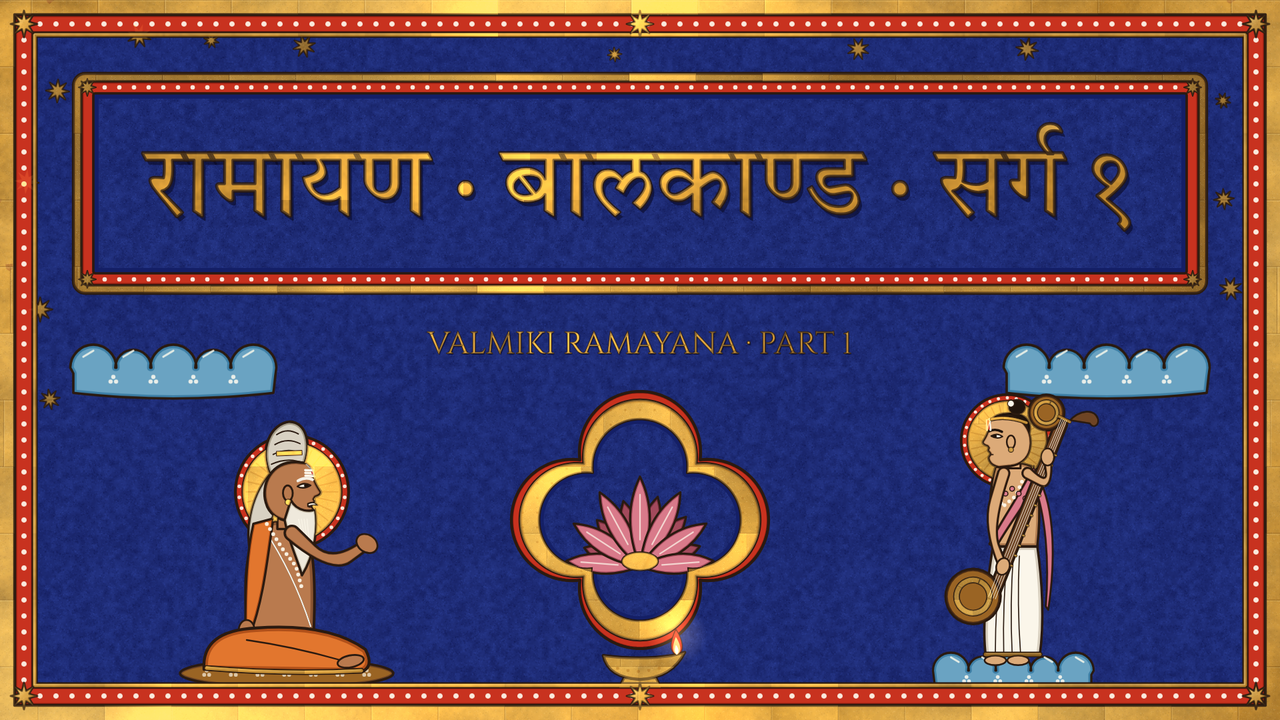
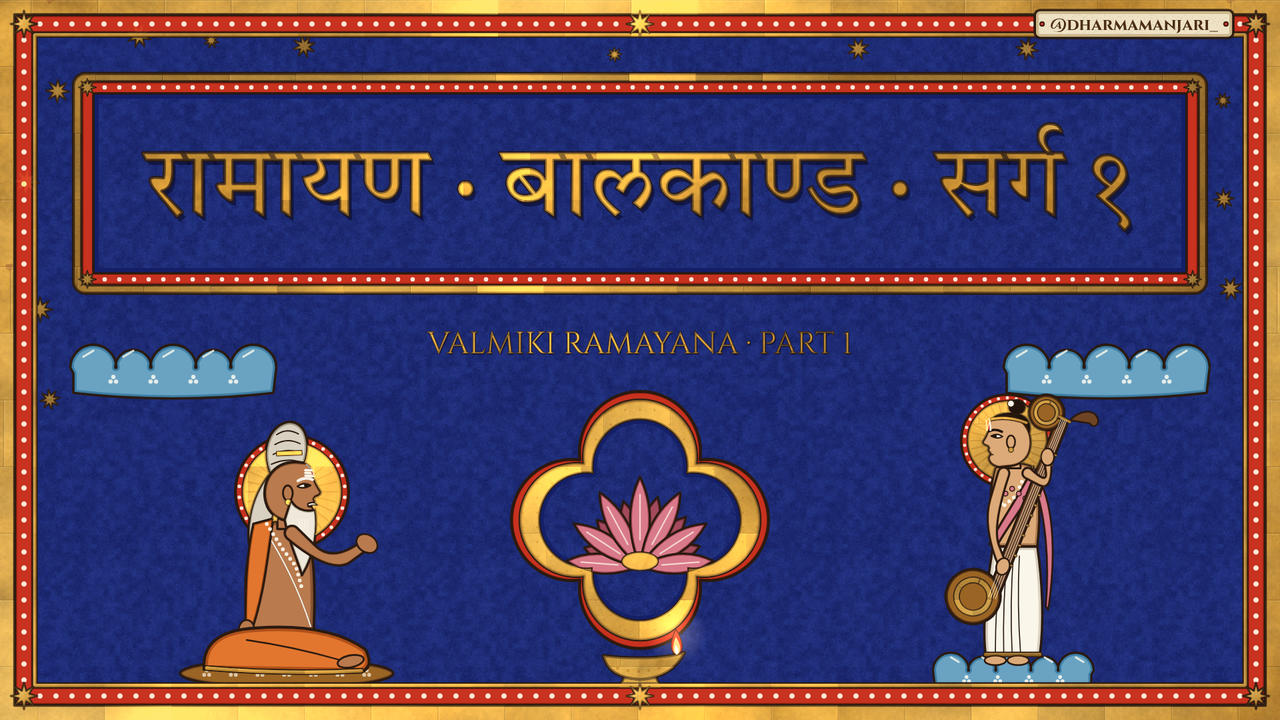
Ramayana Part 1 (Lemo): add the @dharmamanjari_ channel tag on the frame
Claude-Session: https://claude.ai/code/session_01Nx6LznyDzisNiDPQ6DWRRR

Changed region(s): [[0.7812, 0.0, 0.9688, 0.0611]]

diff --git a/ramayana-lemo/src/film.js b/ramayana-lemo/src/film.js
@@ -71,6 +71,14 @@ function subtitles(g, t) {
 
 // ---------------------------------------------------------------- the border: gold outer, vermilion band with pearls, gold cord
 let BORDER = null;
+// the channel tag on the frame (top right), a small vellum label lettered in ink, present for the whole film
+const TAG = '@dharmamanjari_';
+function channelTag(g) {
+  const size = 25, w = tw(TAG, 'cinzel', size, 700) + 46, h = 42, cx = W - 70 - w / 2, cy = 36;
+  const p = P2(q => q.roundRect(cx - w / 2, cy - h / 2, w, h, 8)); vellum(g, p);
+  for (const sx of [-1, 1]) { const d = P2(q => q.arc(cx + sx * (w / 2 - 11), cy, 3.2, 0, TAU)); paint(g, d, VERM, VERM_D, 1, 1); }
+  inkText(g, TAG, cx, cy + 9, size, { fam: 'cinzel', wt: 700, col: '#4a2c16', id: 'tag' });
+}
 function makeBorder() { return cacheLayer(g => {
   const outer = P2(q => { q.rect(0, 0, W, H); q.rect(W - 22, 22, -(W - 44), H - 44); }), band = P2(q => { q.rect(22, 22, W - 44, H - 44); q.rect(W - 50, 50, -(W - 100), H - 100); });
   leaf(g, outer, [0, 0, W, H], { rule: 'evenodd', line: false, rim: false });
@@ -99,7 +107,7 @@ function render(t) {
   FRg.setTransform(1, 0, 0, 1, 0, 0); setZoom(1);
   if (tr) cloudBank(FRg, front);
   subtitles(FRg, t);
-  drawCached(FRg, BORDER);
+  drawCached(FRg, BORDER); channelTag(FRg);
   FRg.save(); FRg.globalCompositeOperation = 'multiply'; FRg.globalAlpha = .12; FRg.fillStyle = FRg.createPattern(GRAINC, 'repeat'); FRg.fillRect(0, 0, W, H); FRg.restore();
   MK = null;
   ctx.setTransform(1, 0, 0, 1, 0, 0); ctx.globalCompositeOperation = 'source-over'; ctx.drawImage(FR, 0, 0);
@@ -153,7 +161,7 @@ window.thumb = () => {
   medallion(FRg, 960, 780, 170, 1, q => lotusFlower(q, 960, 850, 135));
   valmiki(FRg, 430, 1000, 1.0, 1, 2, { ask: .8, look: .3 }); narada(FRg, 1520, 990, .9, -1, 1.2, { pluck: 0, talk: .2 });
   diya(FRg, 960, 1000, 1.2, 3.3, 1, 1);
-  drawCached(FRg, BORDER); MK = null;
+  drawCached(FRg, BORDER); channelTag(FRg); MK = null;
   ctx.setTransform(1, 0, 0, 1, 0, 0); ctx.drawImage(FR, 0, 0);
   const lights = [diyaLight(960, 1000, 1.2, 3.3, .8, 700), { type: 'r', x: 440, y: 700, r: 360, a: .6 }, { type: 'r', x: 1510, y: 640, r: 360, a: .6 }, { type: 'b', x: 760, y: 300, nx: .9, ny: .44, w: 260, a: .8 }, { type: 'r', x: 960, y: 780, r: 320, a: .7 }];
   glintPass(new DOMMatrix(), lights, .16); glowPass(.28);
